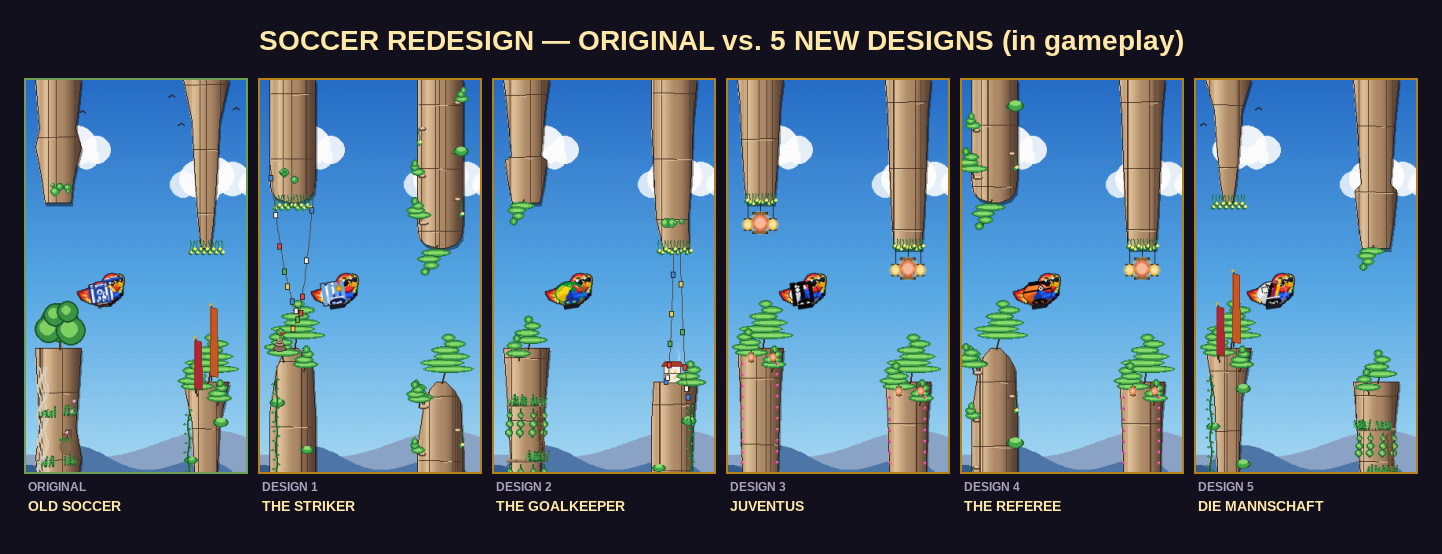
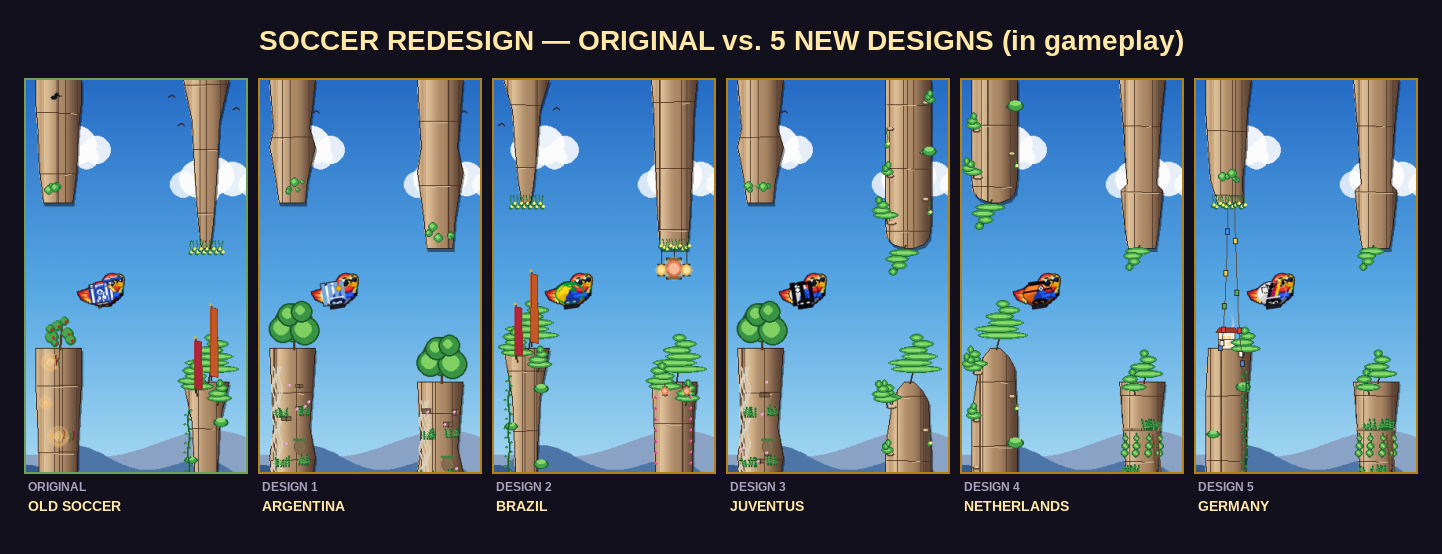
Soccer v9 R1: fix column labels (Argentina/Brazil/Juventus/Netherlands/Germany)

diff --git a/tools/render_soccer_compare.py b/tools/render_soccer_compare.py
@@ -20,11 +20,11 @@ from game.hud import _font, _GOLD_PALE, _GOLD_DEEP
 
 COLUMNS = [
     ("ORIGINAL", "OLD SOCCER", "orig"),
-    ("DESIGN 1", "THE STRIKER", "design_1"),
-    ("DESIGN 2", "THE GOALKEEPER", "design_2"),
+    ("DESIGN 1", "ARGENTINA", "design_1"),
+    ("DESIGN 2", "BRAZIL", "design_2"),
     ("DESIGN 3", "JUVENTUS", "design_3"),
-    ("DESIGN 4", "THE REFEREE", "design_4"),
-    ("DESIGN 5", "DIE MANNSCHAFT", "design_5"),
+    ("DESIGN 4", "NETHERLANDS", "design_4"),
+    ("DESIGN 5", "GERMANY", "design_5"),
 ]
 
 
